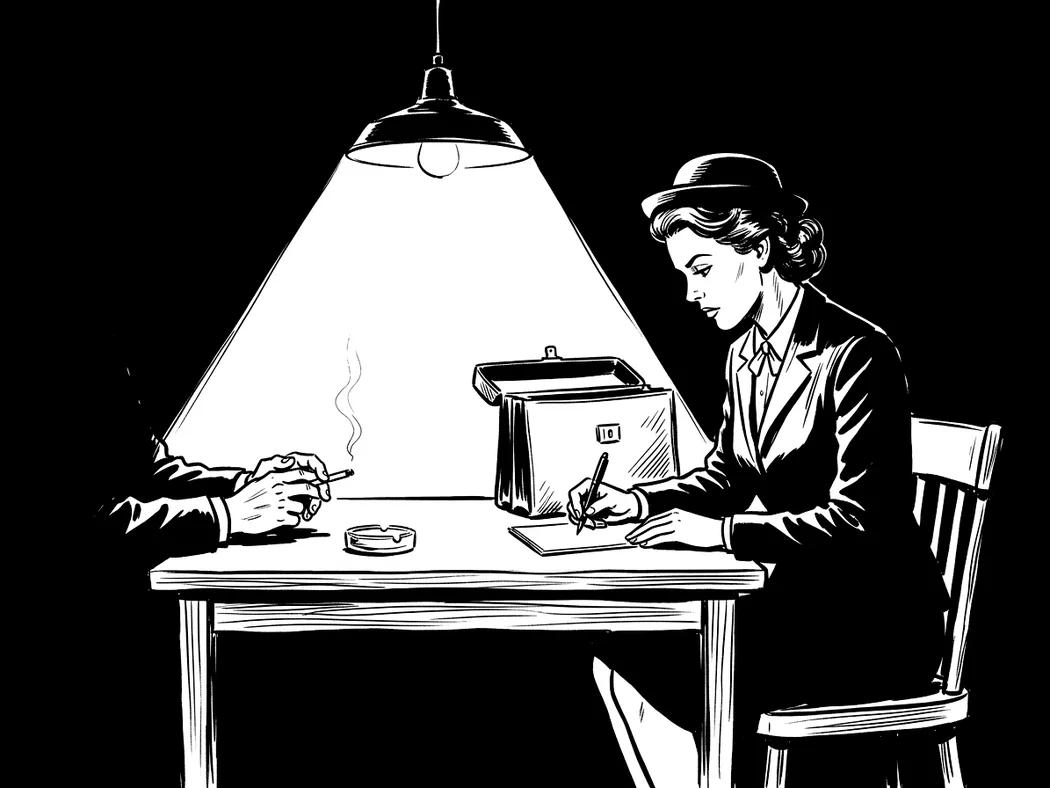
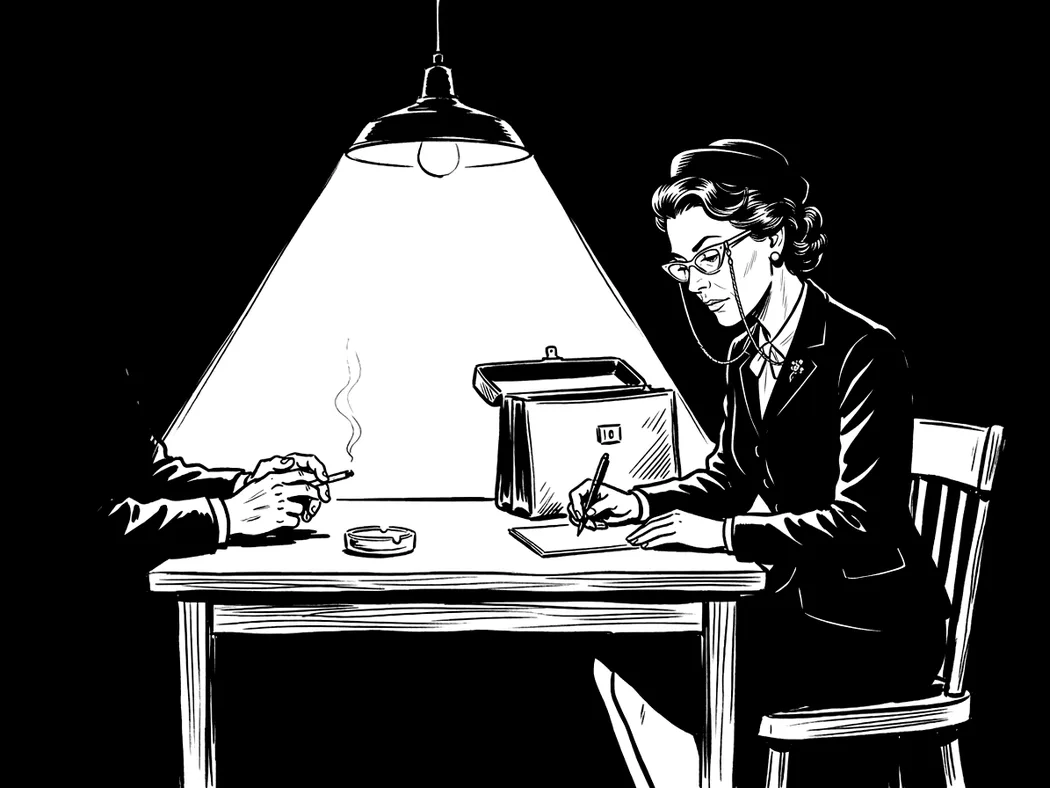
Rollporträtt för livvakten och advokaten (kvinna), advokaten i 50-talsstil och i nattbilden (Jonas 2026-11-14)
Claude-Session: https://claude.ai/code/session_01X82C4BzSyZ6nVrxMwGkML4

diff --git a/src/scenes/sceneImages.js b/src/scenes/sceneImages.js
@@ -87,10 +87,10 @@ export const SCENE_IMAGES = /** @type {const} */ ({
   roleDetectiveWoman: { src: roleDetectiveWoman, alt: 'En kvinnlig detektiv i ljus trenchcoat och hatt antecknar i ett block i en regnig gränd.', position: '50% 30%' },
   roleDetectiveMan: { src: roleDetectiveMan, alt: 'En manlig detektiv i mörk trenchcoat och hatt antecknar i ett block i en regnig gränd.', position: '75% 30%' },
   roleDoctorWoman: { src: roleDoctorWoman, alt: 'En läkare i mörk kappa med stetoskop och läkarväska står i en upplyst dörröppning.', position: '100% 30%' },
-  roleBodyguardWoman: { src: roleBodyguardWoman, alt: 'En smal livvakt i bältad rock och liten hatt håller upp ett paraply vid en svart bils öppna bakdörr en regnig natt utanför ett hotell, med handen vid rockslaget.', position: '80% 30%' },
+  roleBodyguardWoman: { src: roleBodyguardWoman, alt: 'En lång livvakt i bältad rock och liten hatt står med armarna i kors vid en upplyst port en natt och ser prövande på oss.', position: '90% 30%' },
   roleBodyguardMan: { src: roleBodyguardMan, alt: 'En stor livvakt med mustasch, i rock och fedora, står med armarna i kors vid en upplyst port en natt och ser rakt på oss.', position: '90% 30%' },
   roleDoctorMan: { src: roleDoctorMan, alt: 'En läkare med glasögon och mustasch, i mörk kappa med stetoskop och läkarväska, står i en upplyst dörröppning.', position: '100% 30%' },
-  roleLawyerWoman: { src: roleLawyerWoman, alt: 'En advokat i mörk dräkt och liten hatt kliver med portföljen i handen ut ur ljuset från en glasdörr i tingshusets mörka korridor.', position: '85% 30%' },
+  roleLawyerWoman: { src: roleLawyerWoman, alt: 'En advokat i knäppt dräkt, blus med rosett och liten hatt lutar sig i dörren till sin upplysta byrå med en tjock akt under armen och glasögonen i en kedja runt halsen.', position: '100% 30%' },
   roleLawyerMan: { src: roleLawyerMan, alt: 'En advokat i kritstrecksrandig kostym med väst och lossad slips lutar sig i dörren till sin upplysta byrå med en tjock akt under armen och ler lite slugt.', position: '100% 30%' },
   roleCitizenWoman: { src: roleCitizenWoman, alt: 'En kvinna i blommig klänning står i sin öppna ytterdörr och ser ut i mörkret med handen mot dörrkarmen.', position: '75% 30%' },
   roleCitizenMan: { src: roleCitizenMan, alt: 'En man i keps och kofta tittar misstänksamt ut genom sin ytterdörr.', position: '100% 30%' },
@@ -117,7 +117,7 @@ export const SCENE_IMAGES = /** @type {const} */ ({
   nightBodyguardWoman: { src: nightBodyguardWoman, alt: 'En livvakt i bältad rock och hatt står vakt med händerna i fickorna bredvid en stängd dörr, i ljuset från en gatlykta en regnig natt.', position: '85% 50%' },
   nightBodyguardMan: { src: nightBodyguardMan, alt: 'En stor livvakt i rock och hatt står vakt med händerna i fickorna bredvid en stängd dörr, i ljuset från en gatlykta en regnig natt.', position: '85% 50%' },
   nightDoctorMan: { src: nightDoctorMan, alt: 'En man i hatt och rock med en läkarväska går ensam längs en regnig gata en natt under en gatlykta.', position: '65% 50%' },
-  nightLawyerWoman: { src: nightLawyerWoman, alt: 'En advokat i dräkt och liten hatt sitter vid ett köksbord under en hängande lampa och antecknar. Mitt emot syns bara klientens händer med en cigarett.', position: '75% 50%' },
+  nightLawyerWoman: { src: nightLawyerWoman, alt: 'En advokat i dräkt, liten hatt och kattögonglasögon sitter vid ett köksbord under en hängande lampa och antecknar. Mitt emot syns bara klientens händer med en cigarett.', position: '75% 50%' },
   nightLawyerMan: { src: nightLawyerMan, alt: 'En gråsprängd advokat i kritstrecksrandig kostym sitter vid ett köksbord under en hängande lampa och antecknar. Mitt emot syns bara klientens händer med en cigarett.', position: '75% 50%' },
   nightCitizenWoman: { src: nightCitizenWoman, alt: 'En kvinna sover i sin säng. Genom fönstret syns en gestalt i hatt under en gatlykta i regnet.', position: '65% 50%' },
   nightCitizenMan: { src: nightCitizenMan, alt: 'En man sover i sin säng. Genom fönstret syns en gestalt i hatt under en gatlykta i regnet.', position: '65% 50%' },

diff --git a/docs/bildsmak.md b/docs/bildsmak.md
@@ -200,6 +200,17 @@ en regel.
   där. Men annars gillar jag utseendet på dem jättemycket." `natt-advokat-man`
   redigerades så att porträttets advokat sitter vid bordet, med resten av
   bilden orörd.
+- 2026-11-14, `roll-advokat-kvinna` som porträtt med öppen kavaj, uppknäppt
+  blus, kort löst hår och glasögonen uppskjutna i håret (bortvald): "Är
+  advokatkvinnans kläder tidsenliga. Och glasögonen på huvudet. Vi behöver se
+  till att man upplever att det är 50-tal." Kläder, frisyr och gester ska vara
+  tydligt 1950-tal: knäppt midjad kavaj, blusrosett, uppsatt vågigt hår, liten
+  hatt, kattögonglasögon i kedja.
+- 2026-11-14, `roll-livvakt-kvinna` som porträtt (samma port som mannen, men
+  nästan hans rock och axlar) och `roll-advokat-kvinna` och
+  `natt-advokat-kvinna` i 50-talsstil (lite slätt ansikte, stel hand på
+  akten), med iakttagelserna: "Dina iakttagelser är helt korrekta. Jag håller
+  med. Men vi behåller dessa bilder (även om de inte är perfekta)"
 
 ## Bilder att byta
 
